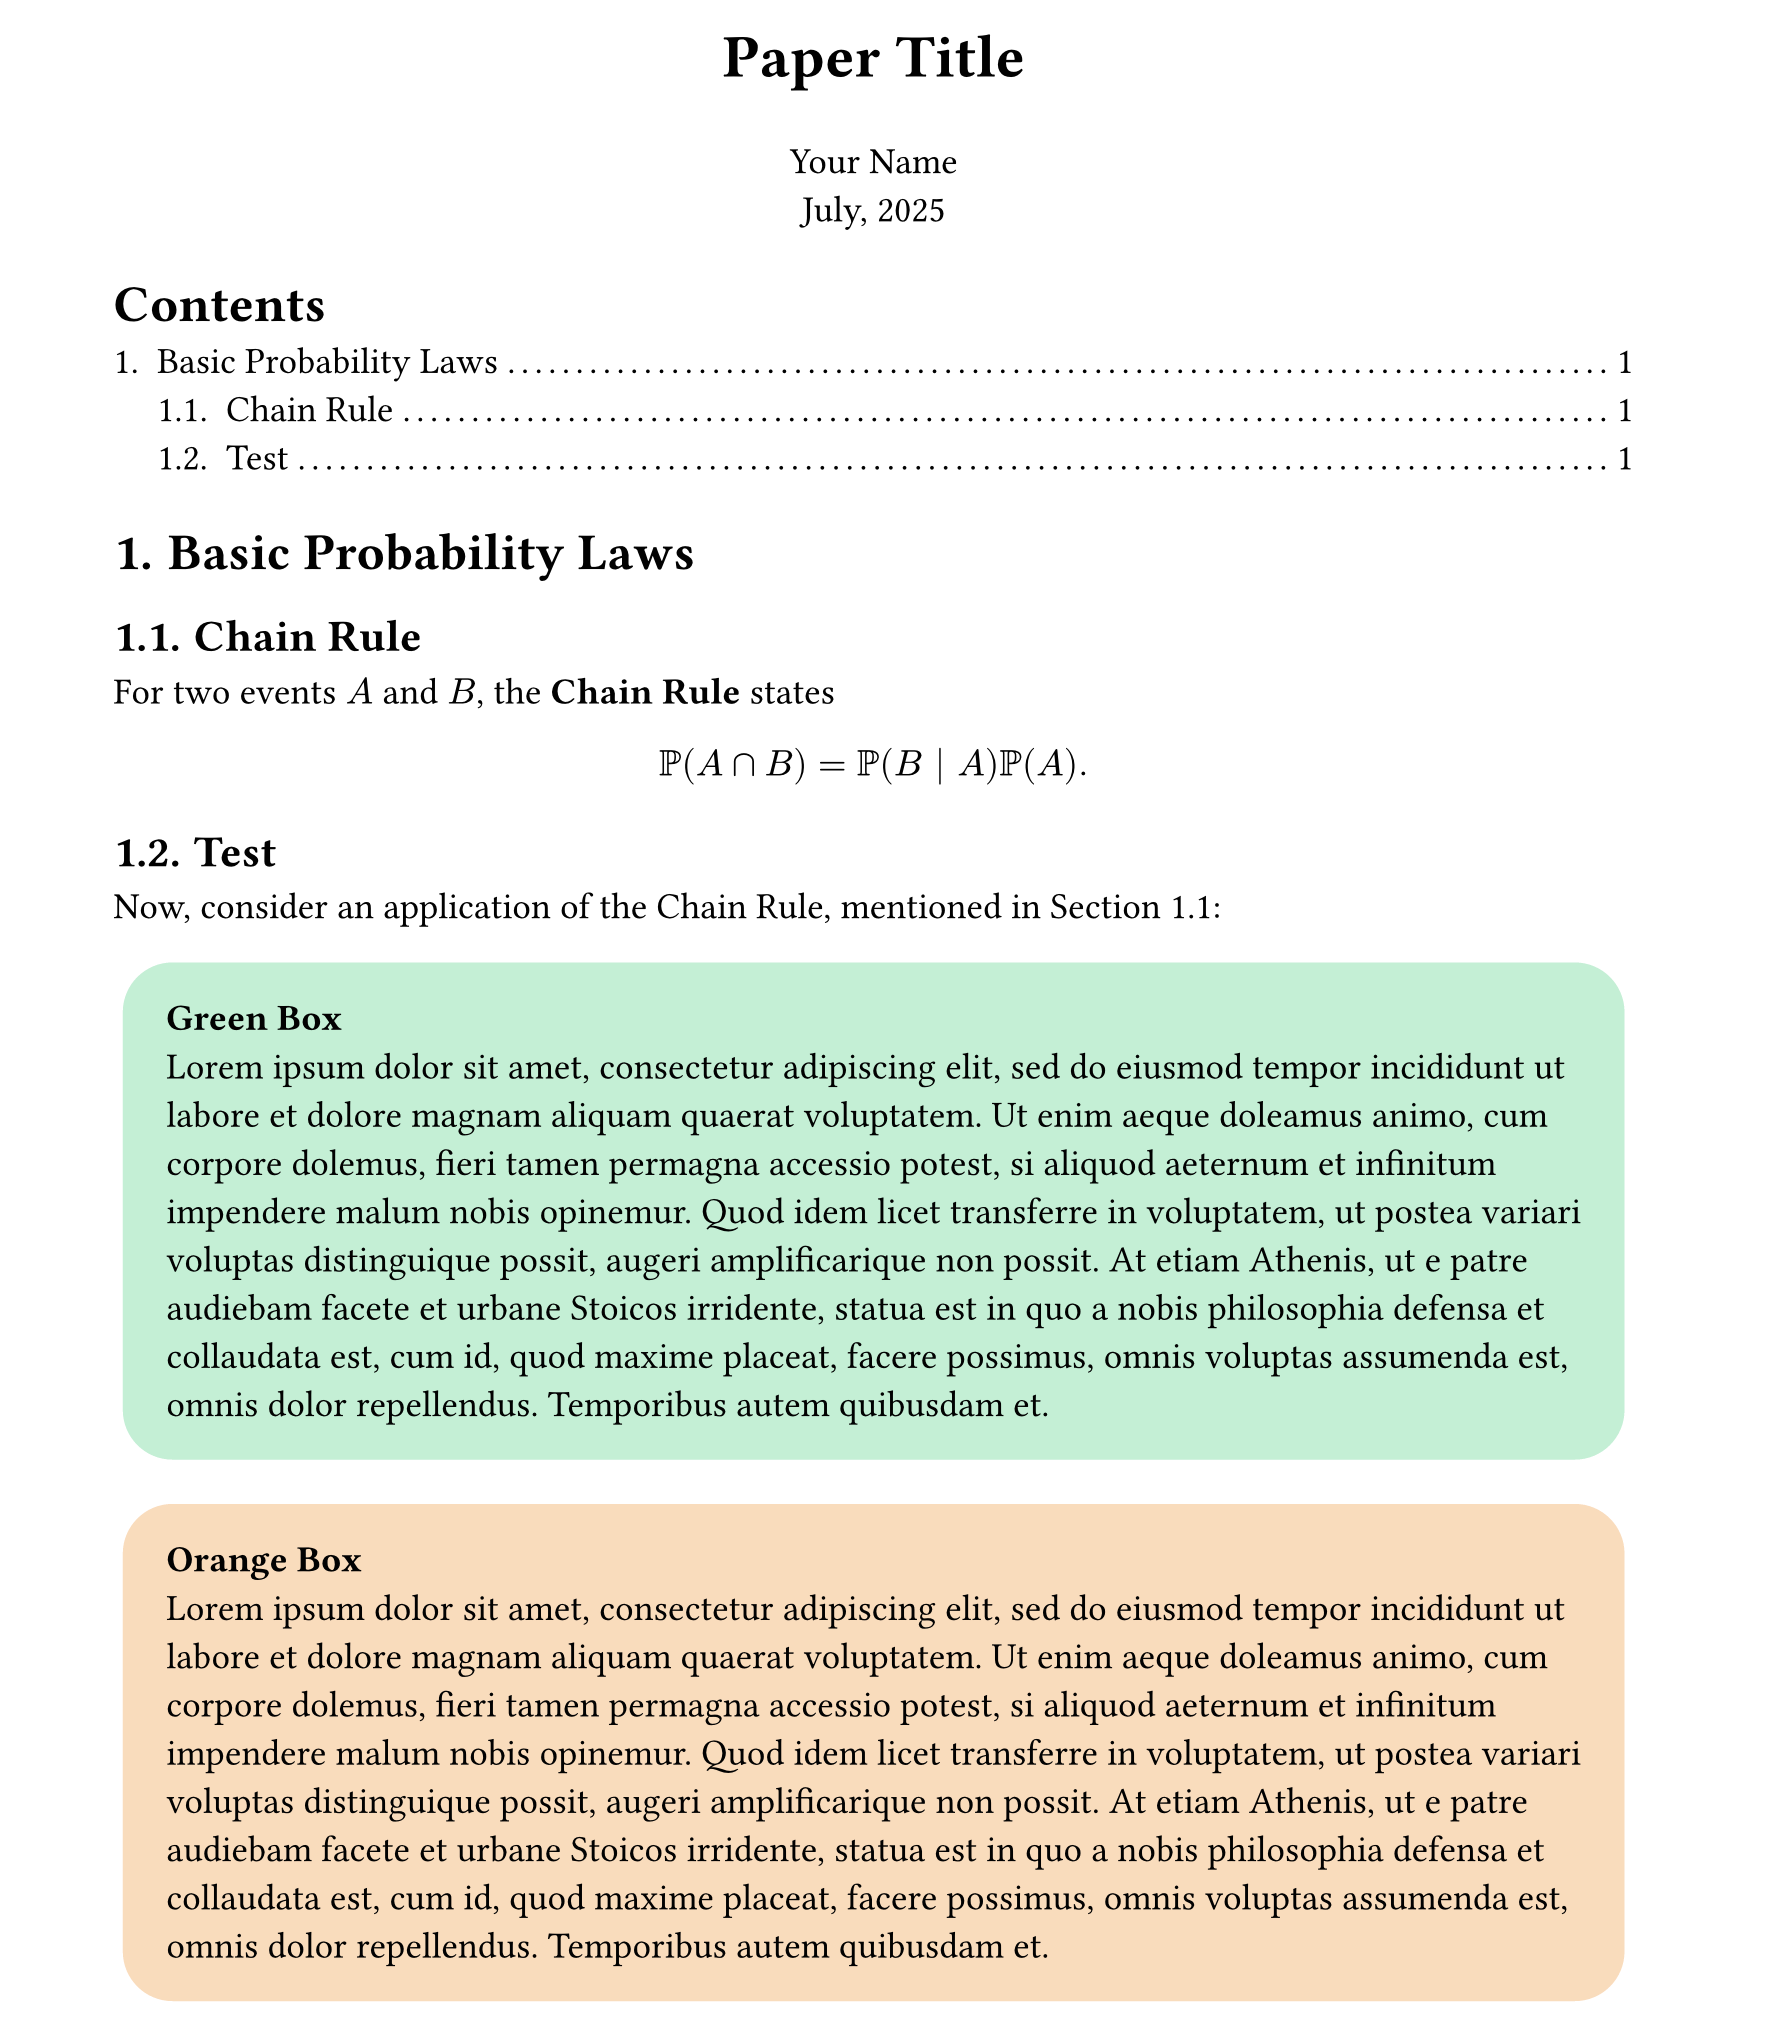
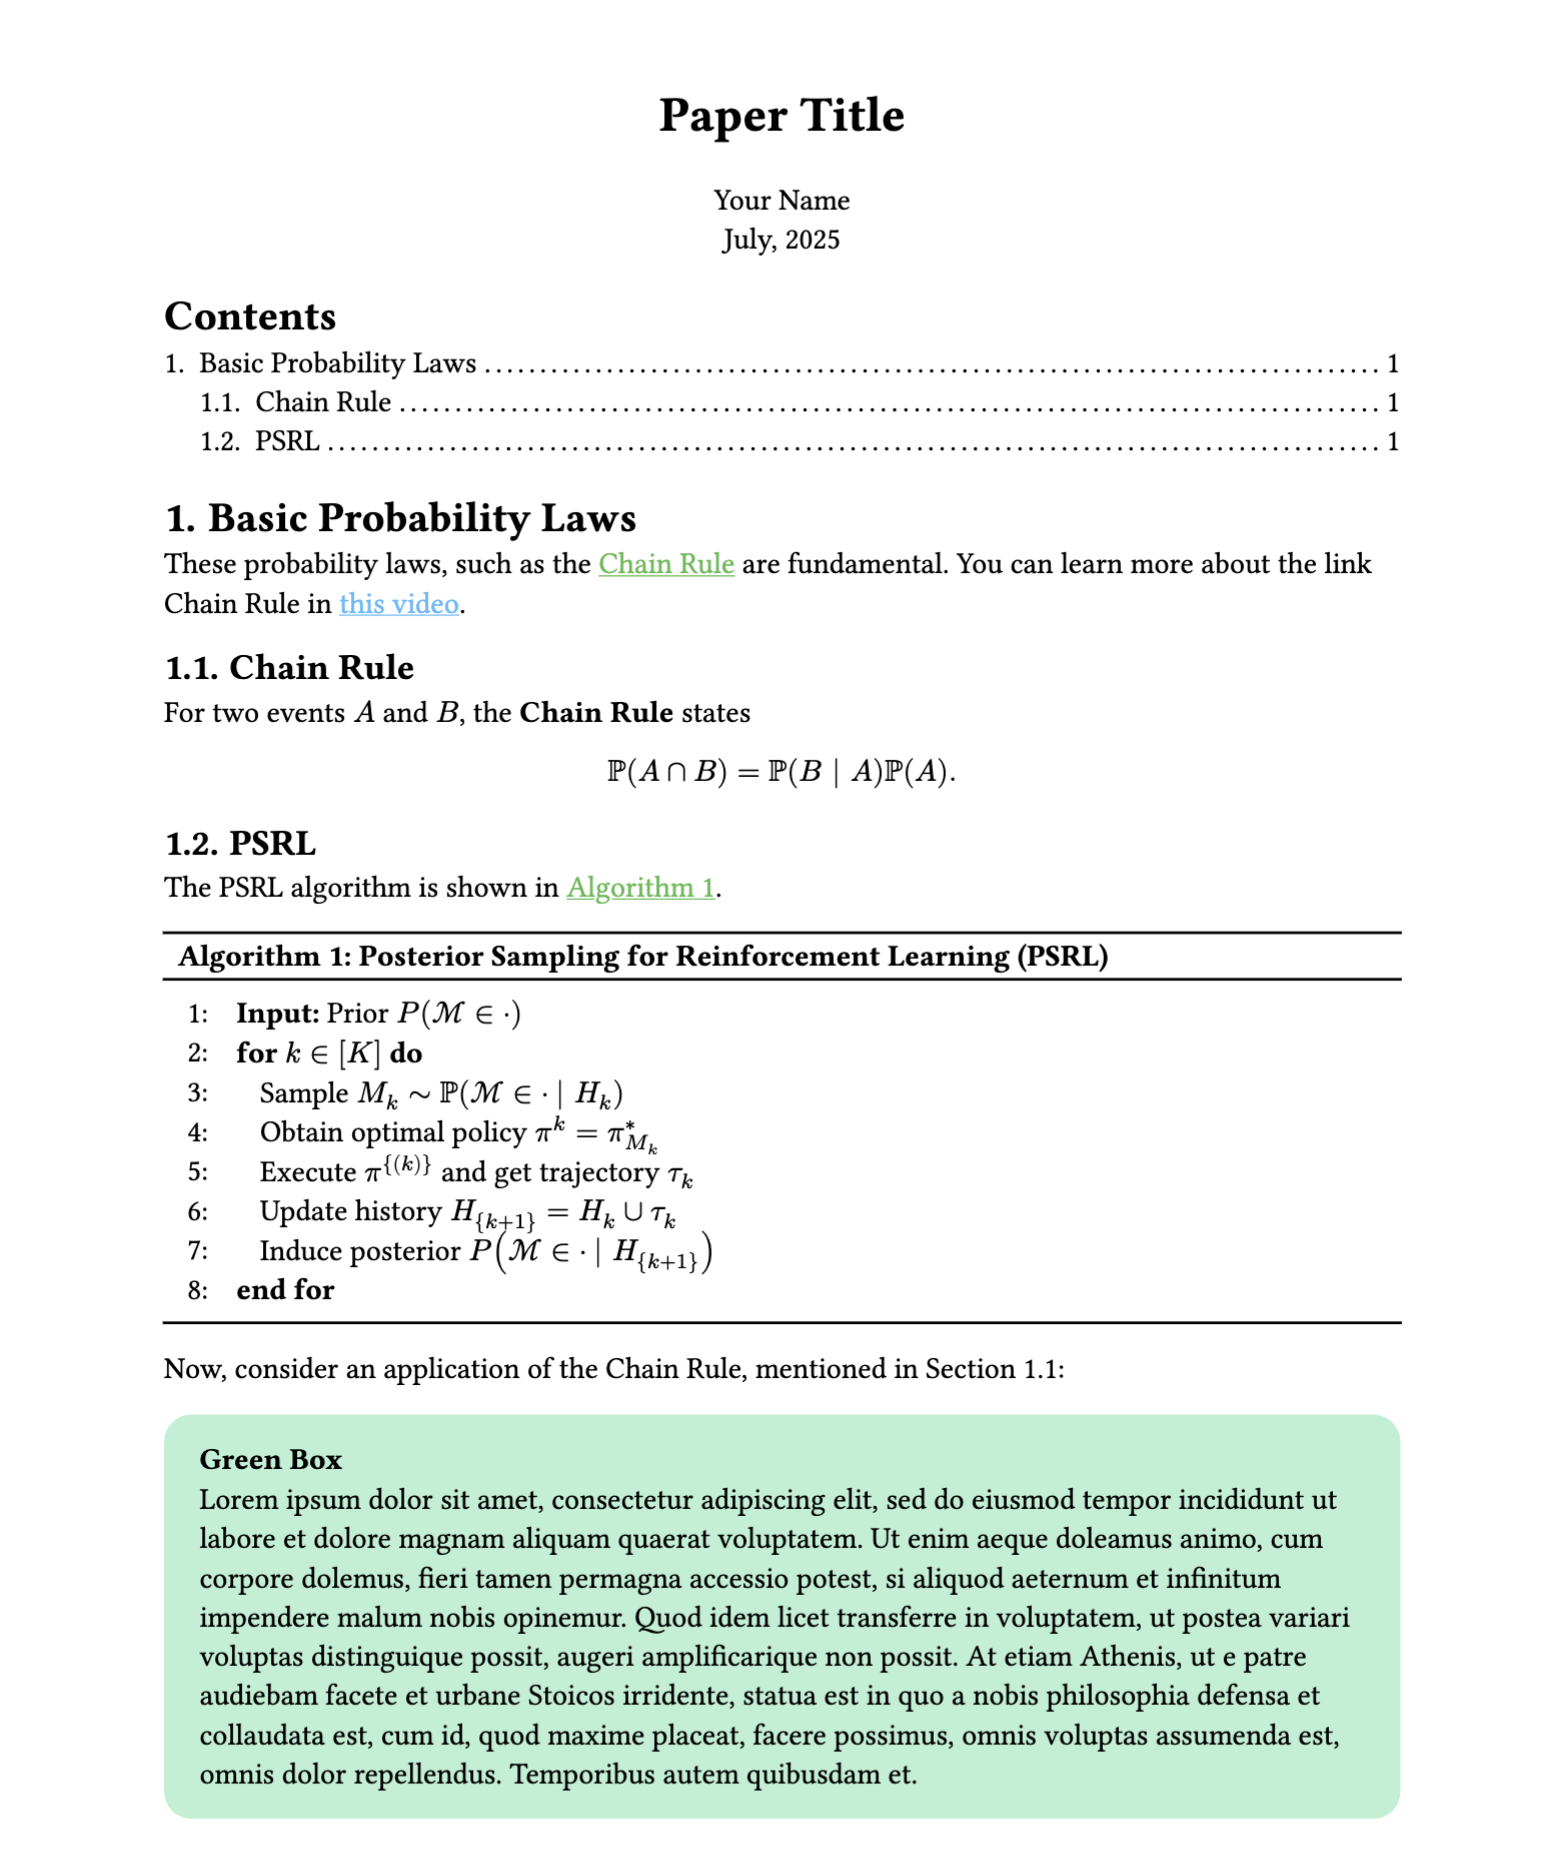
Fix kebab case in main.typ, add algorithms support, update thumbnail.png, update README

diff --git a/packages/preview/minimal-note/0.10.0/README.md b/packages/preview/minimal-note/0.10.0/README.md
@@ -31,3 +31,12 @@ The template will initialize your package with a sample call to the `minimal-not
   date: datetime.today().display("[month repr:long], [year]")
 )
 ```
+
+## Todo Features
+
+Have recommendations? Please submit an issue.
+
+- [x] Algorithm support
+- [ ] Bibliography support
+- [ ] showybox support 
+- [ ] Multiple authors support
